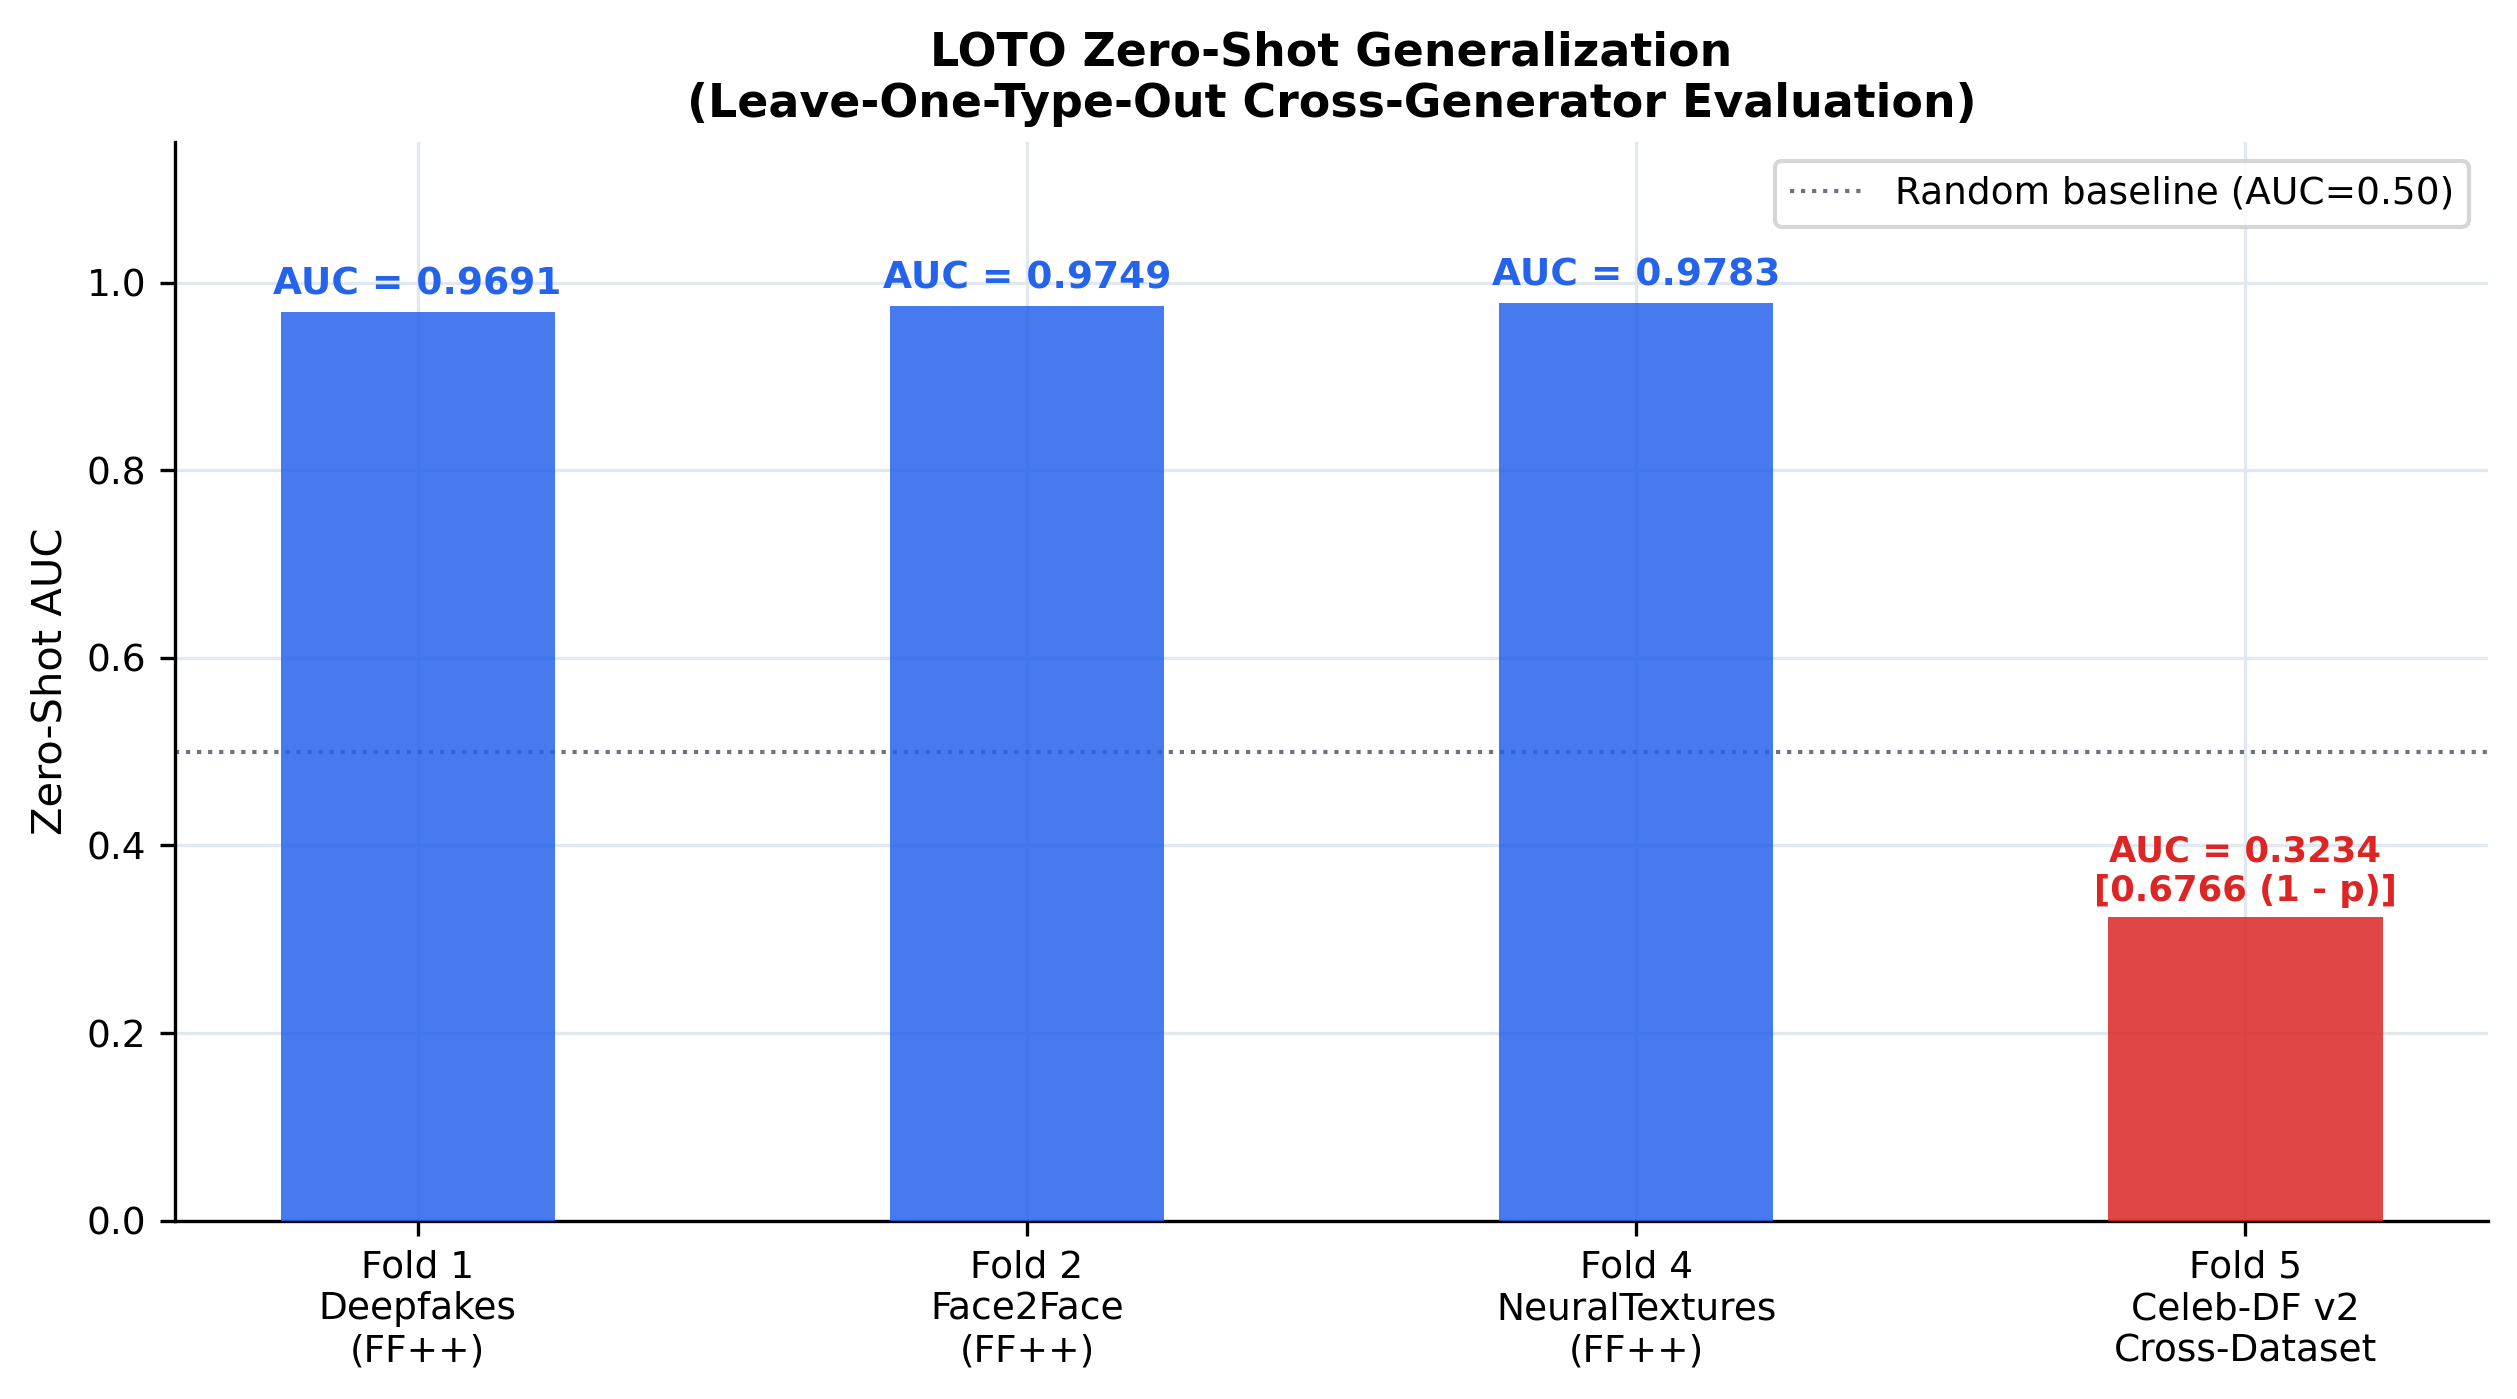
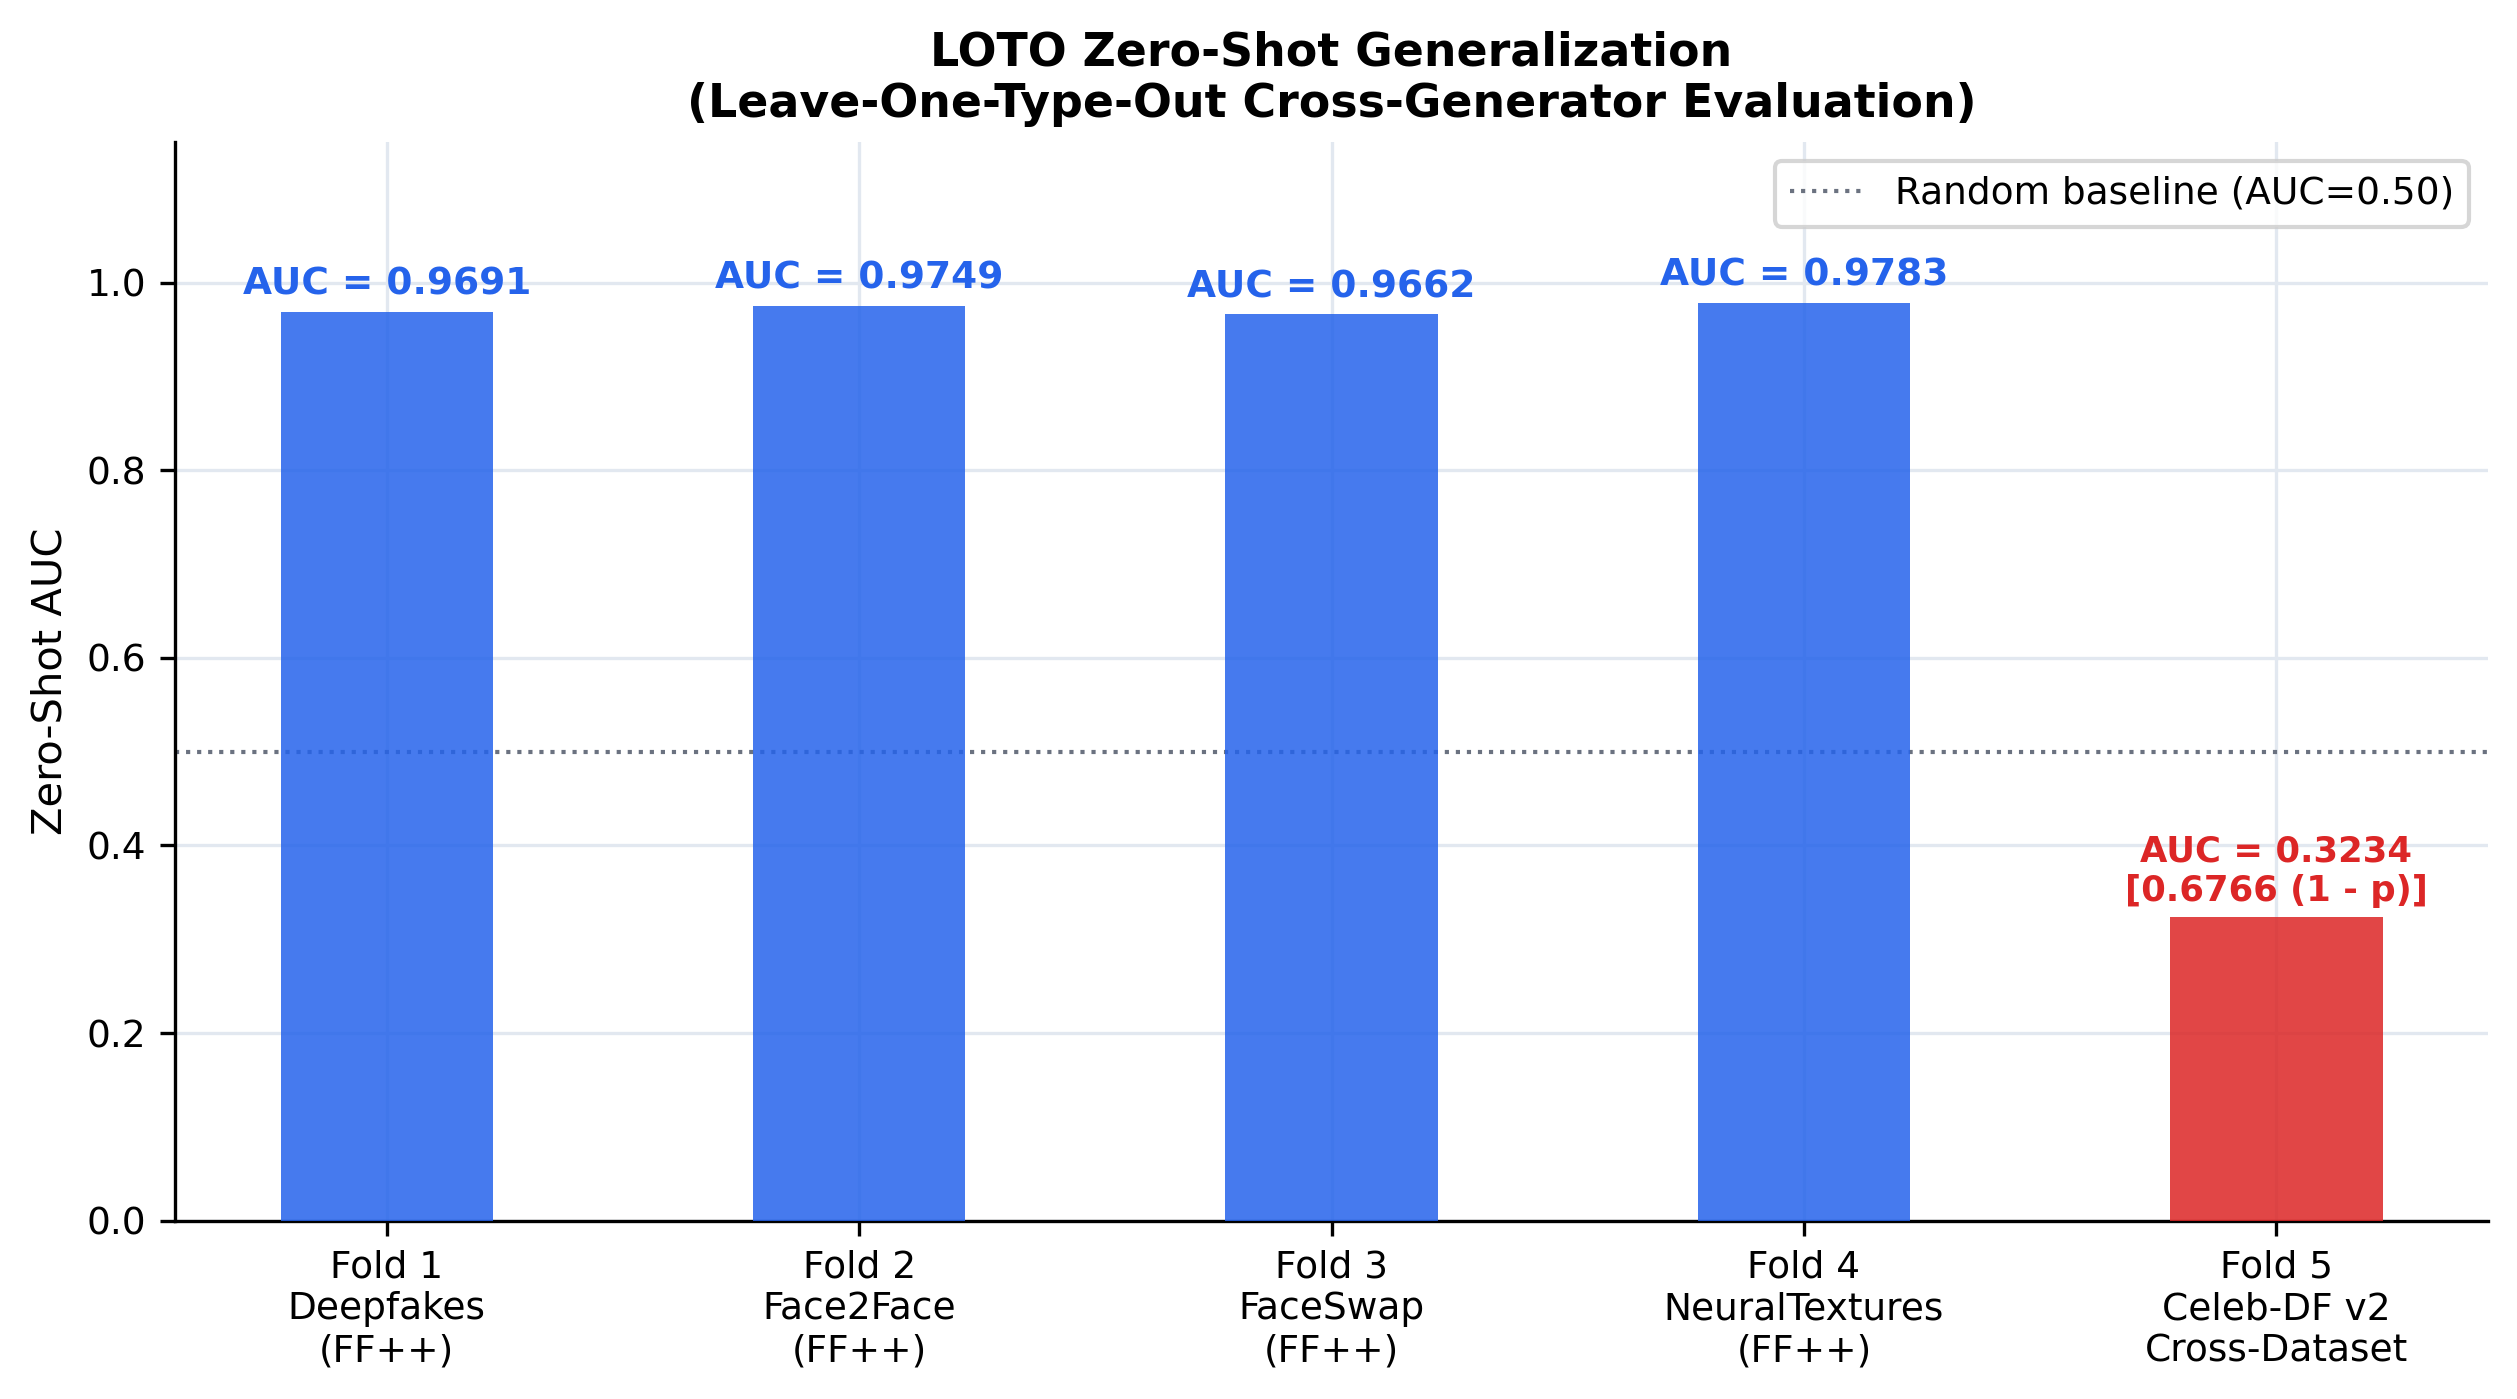
Update Fold 3 FaceSwap LOTO empirical results (AUC=0.9662, F1=0.8969) and complete 5-fold benchmark plot

diff --git a/scripts/generate_benchmark_plots.py b/scripts/generate_benchmark_plots.py
@@ -174,6 +174,7 @@ def plot_loto(loto_data: list, output_path: str) -> None:
     folds = [
         ("Fold 1\nDeepfakes\n(FF++)", 0.9691, BLUE, None),
         ("Fold 2\nFace2Face\n(FF++)", 0.9749, BLUE, None),
+        ("Fold 3\nFaceSwap\n(FF++)", 0.9662, BLUE, None),
         ("Fold 4\nNeuralTextures\n(FF++)", 0.9783, BLUE, None),
         ("Fold 5\nCeleb-DF v2\nCross-Dataset", 0.3234, RED, "0.6766 (1 - p)"),
     ]

diff --git a/README.md b/README.md
@@ -120,7 +120,7 @@ $$
 | :--- | :--- | :--- | :---: | :---: | :---: | :---: |
 | **Fold 1** | `FF++ Deepfakes` | Within-Dataset LOTO | 5,289 | **`0.9691`** | `0.0309` | **`0.9065`** |
 | **Fold 2** | `FF++ Face2Face` | Within-Dataset LOTO | 5,289 | **`0.9749`** | `0.0251` | **`0.9179`** |
-| **Fold 3** | `FF++ FaceSwap` | Within-Dataset LOTO | 5,200 | *Pending GPU Run* | *Pending* | *Pending* |
+| **Fold 3** | `FF++ FaceSwap` | Within-Dataset LOTO | 5,289 | **`0.9662`** | `0.0338` | **`0.8969`** |
 | **Fold 4** | `FF++ NeuralTextures` | Within-Dataset LOTO | 5,289 | `0.9783` | `0.0217` | `0.9230` |
 | **Fold 5** | `Celeb-DF v2` | Cross-Dataset Zero-Shot | 82,549 | `0.3234` | **`0.6766`** | `0.1202` |
 
